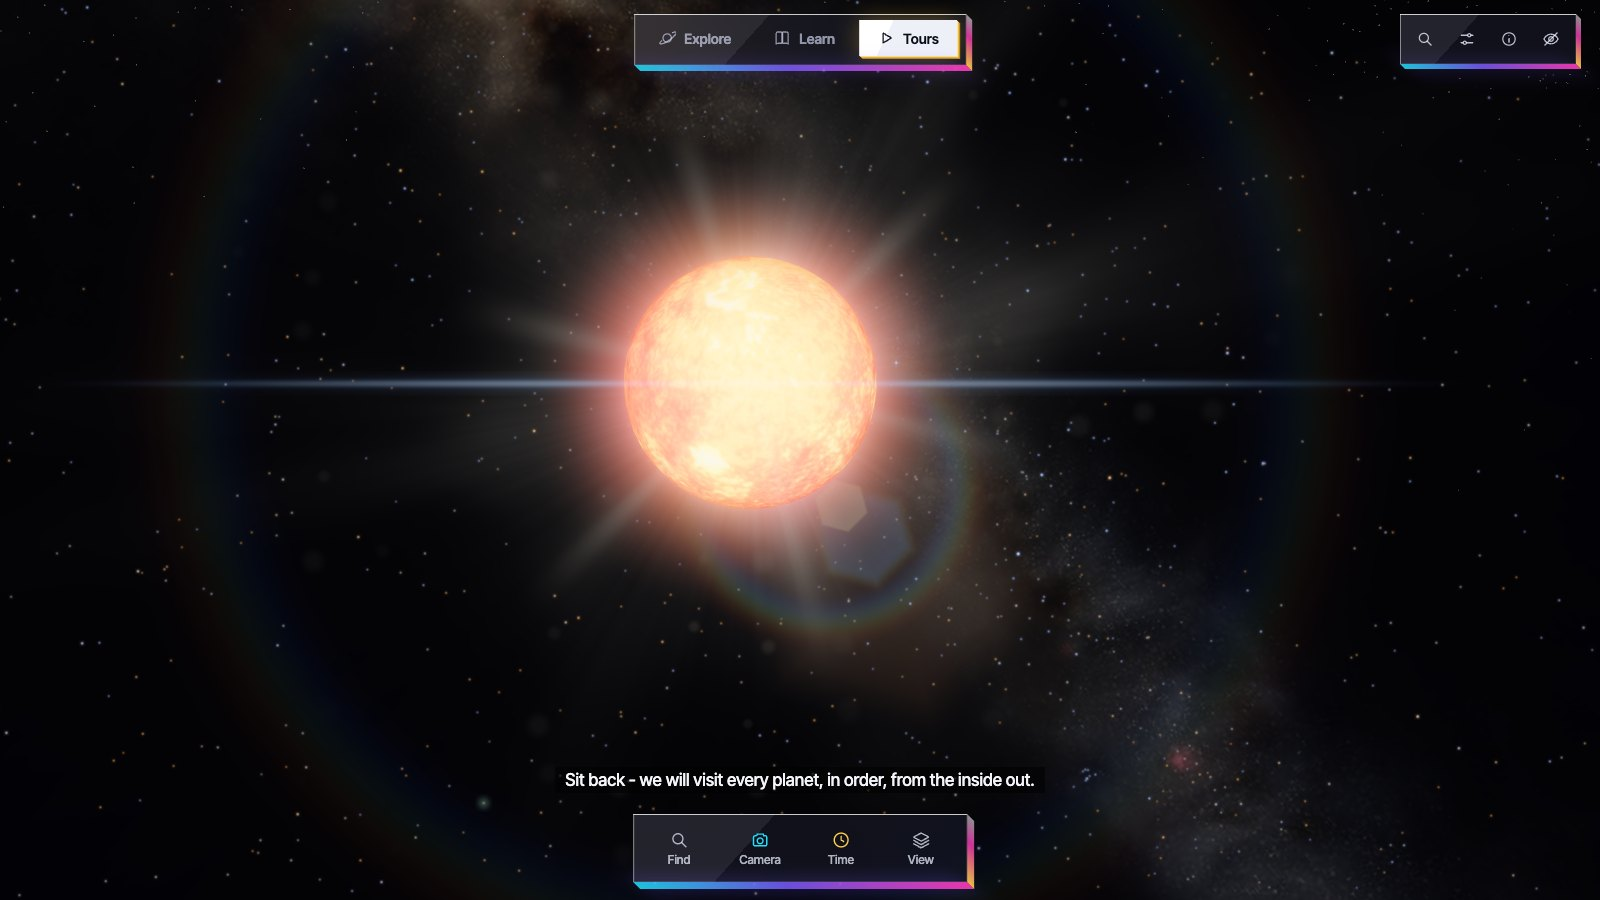
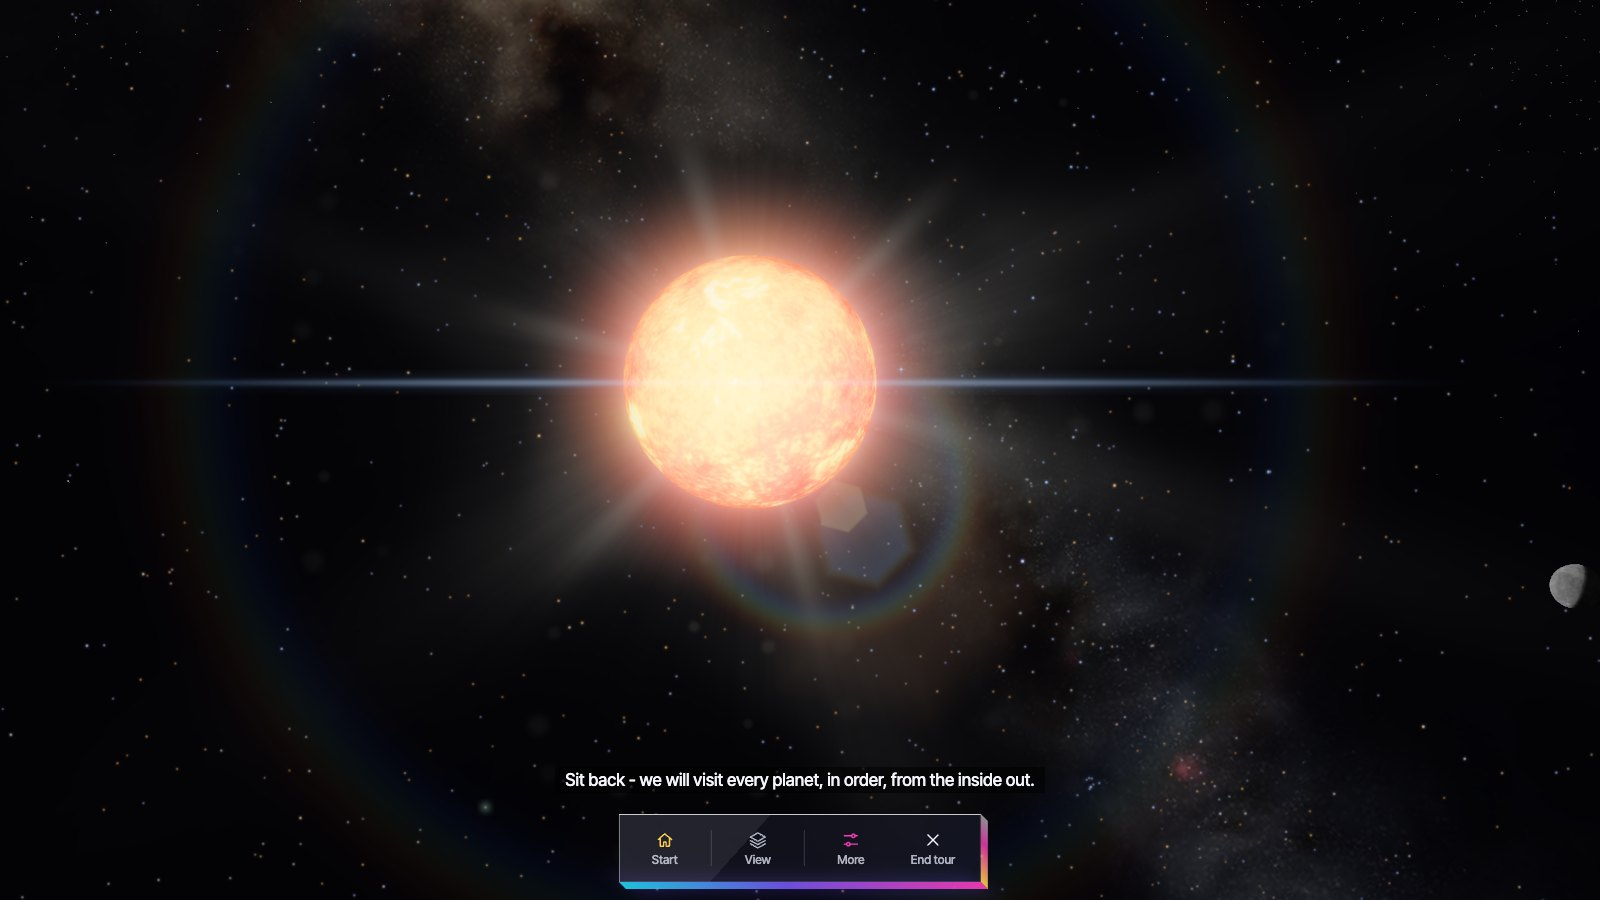
README and screenshots for the one bar: the start page, free flight, the Voyager tours and lessons
Also: free flight lets go of a followed body, and the follow chip has the HUD's font.

diff --git a/packages/app/scripts/screenshots.ts b/packages/app/scripts/screenshots.ts
@@ -25,16 +25,31 @@ const sunlit = async (page: Page, base: string, body: string, offset: [number, n
   await setSwitch(page, '#body-labels-toggle', false)
 }
 
+// A lesson from the start page, paused (lessons turn their pages by themselves), `nexts` chapters
+// on - each given time for its scene to settle.
 const lessonAt = async (page: Page, base: string, id: string, nexts: number) => {
   await boot(page, base)
-  await page.locator('#learn-mode-btn').click()
+  await page.locator('#start-btn').click()
   await page.locator(`.hud-lesson-card[data-lesson-id="${id}"]`).click()
   await wait(2500)
+  if ((await page.locator('#lesson-autoplay').getAttribute('aria-pressed')) === 'true') await page.locator('#lesson-autoplay').click()
   for (let i = 0; i < nexts; i++) {
     await page.locator('#lesson-next-chapter').click()
     await wait(2500)
   }
-  await wait(1500)
+  await wait(2500)
+}
+
+// A mission tour from the start page, jumped to its station `index`, paused there.
+const missionAt = async (page: Page, base: string, tour: string, index: number) => {
+  await boot(page, base)
+  await page.locator('#start-btn').click()
+  await page.locator(`[data-tour-id="${tour}"]`).click()
+  await wait(4000)
+  await page.locator(`#mission-timeline li[data-index="${index}"] button`).click()
+  await wait(9000)
+  if ((await page.locator('#mission-play').getAttribute('data-state')) === 'playing') await page.locator('#mission-play').click()
+  await wait(800)
 }
 
 const SHOTS: Record<string, Shot> = {
@@ -59,33 +74,48 @@ const SHOTS: Record<string, Shot> = {
     await sunlit(page, base, 'Saturn', [480, -50])
     await sceneOnly(page)
   },
+  // The inner Solar System with the orbits and names - and the bar at the bottom.
   compact: async (page, base) => {
     await boot(page, base)
     await setSwitch(page, '#orbit-paths-toggle', true)
     await setSwitch(page, '#body-labels-toggle', true)
     await zoom(page, 5)
   },
-  welcome: async (page, base) => {
+  // Free flight past Saturn, the controls overlay showing its keys.
+  'free-flight': async (page, base) => {
+    await sunlit(page, base, 'Saturn', [300, -40])
+    await page.locator('#camera-mode-btn').click()
+    await page.addStyleTag({ content: '.hud-controls { display: block !important; }' })
+    await page.keyboard.press('Shift+Slash')
+    // No focus ring on the camera key.
+    await page.evaluate(() => (document.activeElement as HTMLElement | null)?.blur())
+    await wait(800)
+  },
+  // What a first visit opens: the start page.
+  start: async (page, base) => {
     await page.goto(`${base}/?lang=en`)
-    await page.locator('#welcome-card:not([hidden])').waitFor({ timeout: 60_000 })
+    await page.locator('#start-page:not([hidden])').waitFor({ timeout: 60_000 })
     await page.addStyleTag({ content: '.hud-beta-note { display: none !important; }' })
     await wait(2500)
   },
-  tours: async (page, base) => {
-    await boot(page, base)
-    await page.locator('#tours-mode-btn').click()
-    await wait(800)
-  },
   'grand-tour': async (page, base) => {
     await boot(page, base)
-    await page.locator('#tours-mode-btn').click()
-    await page.locator('#tour-library [data-tour-id="grand"]').click()
+    await page.locator('#start-btn').click()
+    await page.locator('#start-grand').click()
     await wait(9000)
   },
+  // Voyager 2 at Neptune, its station's card with NASA's photo, the stations in the bar.
+  'voyager-tour': (page, base) => missionAt(page, base, 'voyager2', 4),
   'lesson-planets': (page, base) => lessonAt(page, base, 'planetSizes', 0),
+  'lesson-seasons': (page, base) => lessonAt(page, base, 'seasons', 3),
   'lesson-moon': (page, base) => lessonAt(page, base, 'moonPhases', 3),
   'lesson-eclipse': (page, base) => lessonAt(page, base, 'solarEclipse', 6),
-  settings: async (page, base) => {
+  'lesson-voyager': (page, base) => lessonAt(page, base, 'voyager', 1),
+  'lesson-record': (page, base) => lessonAt(page, base, 'voyager', 2),
+  'lesson-jupiter': (page, base) => lessonAt(page, base, 'voyager', 5),
+  'lesson-taken-apart': (page, base) => lessonAt(page, base, 'voyagerDeepDive', 0),
+  // More, on its Audio tab: the narrator, subtitles and the music.
+  more: async (page, base) => {
     await boot(page, base)
     await followBody(page, 'Jupiter')
     await drag(page, [0, 160])

diff --git a/packages/app/scripts/supercut/stage.ts b/packages/app/scripts/supercut/stage.ts
@@ -5,19 +5,19 @@ import type { Page } from '@playwright/test'
 
 export const wait = (ms: number) => new Promise((resolve) => setTimeout(resolve, ms))
 
-// A fresh app: English, no welcome card, no idle tour, the narrator's subtitles on.
+// A fresh app: English, no start page, the narrator's subtitles on.
 export async function boot(page: Page, base: string): Promise<void> {
   await page.goto(`${base}/?tour=off&lang=en`)
   await page.locator('#scene[data-rendered="true"]').waitFor({ timeout: 60_000 })
-  await page.addStyleTag({ content: '.hud-beta-note, .hud-camera-hint { display: none !important; }' })
+  await page.addStyleTag({ content: '.hud-beta-note, .hud-camera-hint, .hud-controls { display: none !important; }' })
   await wait(1500)
 }
 
+// Flies to a body and follows it, through the search.
 export async function followBody(page: Page, name: string): Promise<void> {
-  await page.locator('.hud-dock-btn[data-panel="find"]:visible').click()
-  await page.locator('#entity-search-input').fill(name)
-  await page.locator('#entity-search-input').press('Enter')
-  await page.locator('.hud-dock-btn[data-panel="find"]:visible').click()
+  await page.locator('#search-btn').click()
+  await page.locator('#palette-input').fill(name)
+  await page.locator('#palette-input').press('Enter')
   await wait(3500)
 }
 
@@ -99,11 +99,11 @@ export async function glide(page: Page, [dx, dy]: [number, number], ms: number, 
 // its labels stay.
 export async function lessonSceneOnly(page: Page): Promise<void> {
   await page.addStyleTag({
-    content: '.hud-modes, .hud-top-actions, .hud-dock, .hud-lesson-panel, .hud-view-controls, .hud-phase-inset, .hud-camera-hint { display: none !important; }',
+    content: '.hud-dock, .hud-lesson-panel, .hud-phase-inset, .hud-camera-hint, .hud-controls, .hud-follow-chip { display: none !important; }',
   })
 }
 
-// Holds keys down for `ms`: the app's own camera keys (arrows turn, R/F zoom), which it eases in
+// Holds keys down for `ms`: the app's own camera keys (arrows turn, W/S zoom), which it eases in
 // and out - smoother than any drag.
 export async function hold(page: Page, keys: string[], ms: number): Promise<void> {
   for (const key of keys) await page.keyboard.down(key)

diff --git a/packages/app/src/camera/cameraDirector.ts b/packages/app/src/camera/cameraDirector.ts
@@ -56,8 +56,10 @@ export class CameraDirector {
   }
 
   // Switching to free-fly starts from the orbit camera's current view, unless syncFlyPose is false:
-  // leaving a lesson returns to free-fly exactly where the fly camera was left.
+  // leaving a lesson returns to free-fly exactly where the fly camera was left. Free flight follows
+  // nothing, so a followed body is let go.
   setMode(mode: CameraMode, { syncFlyPose = true } = {}): void {
+    if (mode === 'fly' && this.follow.followedEntityId) this.stopFollowing()
     if (mode === 'fly' && this.input.mode === 'orbit' && syncFlyPose) {
       const eye = this.orbit.getEyePosition()
       this.fly.setPose(eye, vec3.subtract(vec3.create(), this.orbit.pivot(), eye), this.orbit.upAxis)

diff --git a/packages/app/e2e/entitySearch.spec.ts b/packages/app/e2e/entitySearch.spec.ts
@@ -30,3 +30,12 @@ test('picking a body while in fly mode forces the camera back to orbit mode', as
   await expect(page.locator('#camera-mode-btn')).toHaveAttribute('data-mode', 'orbit')
   await expect(page.locator('#scene')).toHaveAttribute('data-following-id', 'mars')
 })
+
+test('switching to free flight lets go of the followed body, and says so', async ({ page }) => {
+  await openApp(page)
+  await goTo(page, 'Mars')
+  await expect(page.locator('#follow-indicator')).toBeVisible()
+  await page.locator('#camera-mode-btn').click()
+  await expect(page.locator('#follow-indicator')).toBeHidden()
+  await expect(page.locator('#scene')).not.toHaveAttribute('data-following-id')
+})

diff --git a/packages/app/src/hud/hud.css b/packages/app/src/hud/hud.css
@@ -2018,6 +2018,8 @@ body[data-context='explore'] .hud-leave-btn {
 
 /* "Following: Jupiter ×", just above the bar. */
 .hud-follow-chip {
+  font-family: var(--hud-font);
+  color: var(--hud-text);
   position: fixed;
   left: 50%;
   bottom: 104px;

diff --git a/README.md b/README.md
@@ -61,35 +61,46 @@ the Milky Way with its nebulae, and about 9,100 real stars in their own colors.
 | --- | --- |
 | ![Earth in front of the Sun: its night side with city lights, the aurora, and the Sun's corona around it](docs/images/corona.jpg) | ![Saturn and its rings in full sunlight](docs/images/saturn.jpg) |
 
-### Fly it, or let it fly you
+### Fly it yourself
 
-Orbit any body, or fly freely like a spaceship - with keys, mouse, or a thumbstick on a touch
-screen. Double-click a planet to fly there and follow it. Left alone, a silent flyby circles one
-planet after another.
+Everything is in one bar at the bottom: Start, Search, the camera, Time, View and More. Orbit any
+body - drag to turn, two fingers (or the right mouse button) to slide the view, scroll or pinch to
+zoom toward the pointer - or switch the camera to free flight and fly like a spaceship: the arrow
+keys turn the nose, Q/E roll, W/S give thrust that builds up with weight. The keys show as keycaps
+whenever you switch, and with ?. Double-click a planet to fly there and follow it; Ctrl+K searches
+everything.
+
+![Free flight past Saturn, the controls overlay showing its keys, the bar at the bottom](docs/images/free-flight.jpg)
 
 ### Tours, with a narrator
 
-The **Tours** mode holds the narrated **grand tour**: from the Sun out to Neptune and home to Earth,
-about eight minutes, with a narrator - Lyra or Orion - telling what makes each world special, and
-optional subtitles. It flies at warp between the planets, at either scale. The welcome card offers
-it at the start.
+The **start page** (the bar's Start, and by itself on a first visit) holds everything there is to
+start. The narrated **grand tour** flies from the Sun out to Neptune and home to Earth in about
+eight minutes, with a narrator - Lyra or Orion - telling what makes each world special, and
+optional subtitles. It flies at warp between the planets, at either scale. Two **Voyager tours**
+follow Voyager 1 and Voyager 2 along their real paths, station by station: each planet flyby at
+true scale, with NASA's photos, out to the heliopause and to where they are today.
 
 | | |
 | --- | --- |
-| ![The welcome card: language, narrator, and the start of the tour](docs/images/welcome.jpg) | ![The Tours mode's library with the grand tour](docs/images/tours.jpg) |
-| ![The grand tour approaching the Sun, with the narrator's subtitle](docs/images/grand-tour.jpg) | |
+| ![The start page: explore on your own, the grand tour with its language and narrator, the Voyager tours and the lessons](docs/images/start.jpg) | ![The grand tour approaching the Sun, with the narrator's subtitle](docs/images/grand-tour.jpg) |
+| ![The Voyager 2 tour at Neptune: the flyby at true scale, the station's card with Triton, the stations in the bar](docs/images/voyager-tour.jpg) | |
 
 ### Lessons that show, and read themselves out
 
-The **Learn** mode: *Get to know the planets* (side by side at true scale, sorted by size, mass,
-temperature and more), *Why does Earth have seasons?*, *Why does the Moon have phases?* and *What
-happens in a solar eclipse?* - each scene built to show the idea, and every chapter read out by the
-narrator.
+*Get to know the planets* (side by side at true scale, sorted by size, mass, temperature and more),
+*Why does Earth have seasons?*, *Why does the Moon have phases?*, *What happens in a solar
+eclipse?*, *Voyager: the farthest journey* and *Voyager in detail* (the probe taken apart, its
+power and radio, the gravity assists, the Golden Record and how to read its cover) - each scene
+built to show the idea, every chapter read out by the narrator, and the pages turning by
+themselves. Look around each scene: the Voyager probe and its record from all sides.
 
 | | |
 | --- | --- |
-| ![The planets lesson: the Sun and the planets side by side at true scale](docs/images/lesson-planets.jpg) | ![The Moon phases lesson: the evening crescent seen from the ground](docs/images/lesson-moon.jpg) |
-| ![The solar eclipse lesson: totality, the corona around the dark Moon](docs/images/lesson-eclipse.jpg) | |
+| ![The planets lesson: the Sun and the planets side by side at true scale](docs/images/lesson-planets.jpg) | ![The seasons lesson at the June solstice: Earth's axis tilted toward the Sun](docs/images/lesson-seasons.jpg) |
+| ![The Moon phases lesson: the evening crescent seen from the ground](docs/images/lesson-moon.jpg) | ![The solar eclipse lesson: totality, the corona around the dark Moon](docs/images/lesson-eclipse.jpg) |
+| ![The Voyager lesson: the probe with its antenna, booms and Golden Record named](docs/images/lesson-voyager.jpg) | ![The Golden Record, with what is on it](docs/images/lesson-record.jpg) |
+| ![The Voyager lesson at Jupiter, 1979: both probes on their real paths, Voyager 1's photo of the Great Red Spot](docs/images/lesson-jupiter.jpg) | ![Voyager in detail: the probe taken apart, each part named](docs/images/lesson-taken-apart.jpg) |
 
 ### Music
 
@@ -97,7 +108,7 @@ Three lo-fi tracks, played live by a synthesizer in the page (nothing recorded, 
 downloaded): calm **Drift**, the lo-fi house of **Nova** and the 8-bit **Pixel**. The music steps
 back while the narrator speaks.
 
-![Settings, Audio tab: the narrator's voice, subtitles, and the music with its volume](docs/images/settings.jpg)
+![More, Audio tab: the narrator's voice, subtitles, and the music with its volume](docs/images/more.jpg)
 
 ### English and German
 
@@ -157,30 +168,28 @@ To run it from the source instead, or to work on it:
 
 ### Using the app
 
-- **Explore, Learn and Tours** — the switch at the top of the screen chooses between flying around
-  the solar system, taking a lesson and taking a narrated tour. Explore and Learn have their own dock
-  at the bottom; the buttons at the top right search everything, open the settings and the About
-  dialog.
-- **Find** — the **Find** panel lists every body as a tree, by kind: the Sun, the planets with their
-  moons under them, dwarf planets, asteroids and comets. Typing narrows it down (Enter flies to the
-  first match); pick a body to fly the camera to it and lock on. A "Following: …" chip appears with
-  a **×** to stop following and return to free manual control.
-- **Camera** — by default, drag to orbit the current target (it keeps turning a little when you let
-  go), scroll or pinch to zoom; `W`/`A`/`S`/`D` or the arrow keys turn the view and `R`/`F` zoom.
-  Double-click (or double-tap) any planet, moon, comet or dwarf planet to fly there and follow it.
-  Use the **Camera** panel to switch to free flight, flown like a spaceship in a game:
-  `W`/`S` (or `↑`/`↓`) thrust forward/back, `A`/`D` (or `←`/`→`) strafe, `R`/`F` rise/sink, `Q`/`E`
-  roll, `Shift` boosts, drag to look around and scroll to set the speed. The ship eases in and out of
-  motion, slows down near planets and speeds up in open space (so the same keys work at every
-  scale), stops at a planet's surface instead of flying through it, and levels itself with the
-  ecliptic when you stop rolling. On a touch screen, free flight shows a thumbstick (fly and strafe)
-  and buttons to rise, sink and boost; drag anywhere else to look around, pinch to set the speed. A
-  short hint at the top of the screen recalls the controls whenever you switch. The same
-  panel has **Start Flyby**, an endless silent autopilot flight past every planet, flown like a
-  spaceship — it accelerates, brakes on arrival, banks into turns and circles each planet once (any
-  camera input hands control back, exactly where the flight was).
-- **Tours** — the **Tours** button opens the tour library; the **grand tour** flies from the Sun to
-  Neptune and home to Earth with a narrator. Any camera input, or Explore, ends it.
+- **The bar** — every control sits in one bar at the bottom: **Start**, **Search**, the camera,
+  **Time**, **View** and **More**. In a lesson or a tour the same bar becomes its player, with
+  **Leave** or **End tour**. Only one panel is open at a time; a press on the scene or Escape closes
+  it.
+- **Start** — the start page: explore on your own, the narrated **grand tour** (with its language
+  and narrator), the two **Voyager tours** and the lessons with a search. It opens by itself on a
+  first visit; nothing flies before a click, so the narrator is always heard.
+- **Search** — `Ctrl+K` (`Cmd+K` on a Mac) or the bar's Search finds bodies, tours, lessons and
+  settings in one list; a planet's name finds its moons too. Picking a body flies the camera to it
+  and follows it; a "Following: …" chip above the bar lets go of it again.
+- **Camera** — the camera key shows the mode in use and switches between the two. **Orbit**: drag
+  to turn around the target, drag with two fingers (or the right mouse button, or Shift) to slide
+  the view, scroll or pinch to zoom toward the pointer; the arrow keys turn and `W`/`S` zoom.
+  Double-click (or double-tap) a planet, moon, comet or dwarf planet to fly there and follow it.
+  **Free flight** is flown like a spaceship: `W`/`S` thrust forward/back, building up and dying away
+  with weight; the arrow keys steer the nose (`↑` down, `↓` up, `←`/`→` turn); `Q`/`E` roll;
+  `Shift` boosts; drag to look around, scroll to set the top speed. The ship slows near planets and
+  stops at their surface. On a touch screen it shows a thumbstick and buttons. Switching shows the
+  keys as keycaps (press `?` for them any time); a held key lights up.
+- **Tours** — the grand tour flies from the Sun to Neptune and home to Earth with a narrator; the
+  Voyager tours go station by station along the probes' real paths, each planet flyby at true scale,
+  with the stations in the bar to jump between. Any camera input ends the grand tour.
 - **Time** — the **Time** panel has play/pause, a reverse-direction button, and rate presets
   (real-time up to a year per second). The shuttle slider lets you dial in a rate directly: the
   center tick is zero (the clock is stopped), the left half rewinds, the right half fast-forwards
@@ -191,23 +200,26 @@ To run it from the source instead, or to work on it:
   toggles planet orbits, comet and dwarf-planet orbits, name labels, the stars (in their real
   colors), the Milky Way (with its nebulae and the nearest galaxies), the asteroid and Kuiper belts,
   comets, Earth's clouds and moons independently.
-- **Settings** — in tabs. **General**: the language. **Video**: HDR bloom, lens flares and the
+- **More** — the settings, in tabs. **General**: the language. **Video**: HDR bloom, lens flares and the
   **Filmic look** (off by default), which renders the picture's colors like film (AgX tonemapping):
   the Sun burns out to white-hot instead of staying a saturated orange, and the sky goes deep black.
   **Audio**: the narrator's voice (Lyra or Orion) and whether it speaks, subtitles, and the music
-  (off, Drift, Nova or Pixel) with its volume.
-- **Search everything** — `Ctrl+K` (`Cmd+K` on a Mac) or the search button finds objects, lessons
-  and settings in one list.
-- **Learn** — the lesson library shows the lessons by topic, with a search, and remembers where you
-  left each one: **Get to know the planets** (the Sun and planets side by side at true scale, sorted
-  by distance, size, mass, temperature and more, then each planet close up with its facts), **Why does Earth have seasons?** (Earth's tilted axis
-  through a year), **Why does the Moon have phases?** (the Moon's orbit from above, then a month of evenings and mornings from the ground —
-  crescent with earthshine, quarters and the rising full Moon) and **What happens in a solar
-  eclipse?** (the Moon's shadow from space, then the eclipse from the ground — through eclipse
-  glasses, the diamond ring, totality and a ring of fire). In a lesson, its dock steps through the
-  chapters (the chapter counter lists them all to jump to) and the text card folds down to its
-  title. Scenes in space can be zoomed and turned a little — scroll, pinch, drag, or the buttons on
-  the right — with a button back to the lesson's own view.
+  (off, Drift, Nova or Pixel) with its volume. Below them: show the controls, About (imprint,
+  privacy, licenses) and hiding the interface (`H`).
+- **Lessons** — on the start page, by topic, with a search; each remembers where you left it:
+  **Get to know the planets** (the Sun and planets side by side at true scale, sorted by distance,
+  size, mass, temperature and more, then each planet close up with its facts), **Why does Earth
+  have seasons?** (Earth's tilted axis through a year), **Why does the Moon have phases?** (the
+  Moon's orbit from above, then a month of evenings and mornings from the ground — crescent with
+  earthshine, quarters and the rising full Moon), **What happens in a solar eclipse?** (the Moon's
+  shadow from space, then the eclipse from the ground — through eclipse glasses, the diamond ring,
+  totality and a ring of fire), **Voyager: the farthest journey** (the probes, the Golden Record,
+  the flybys with NASA's photos, the Pale Blue Dot and interstellar space) and **Voyager in detail**
+  (the probe taken apart, its power and radio, gravity assists, the heliopause and how to read the
+  record's cover). Lessons play as they open, turning their pages by themselves; the bar steps
+  through the chapters (the chapter counter lists them all to jump to), and the text card folds
+  down to its title. Look around a scene as in Orbit - all the way round the Voyager probe and its
+  record - and **Reset view** returns to the lesson's own.
 - **Things to look for** — fly behind Earth (or the Moon) until it covers the Sun: the exposure
   opens up and the Sun's corona appears in full, with its streamers and the red prominences at the
   limb. Earth's night side shows its city lights, and the aurora glows around both poles — best seen
@@ -235,6 +247,9 @@ texts are in [CREDITS.md](CREDITS.md)):
 | Asteroid and Kuiper belt populations | Generated from the populations' published statistics (no individual catalogued objects) | Original, MIT |
 | Earth's clouds | Procedural, made for this project | Original, MIT |
 | Earth's city lights | NASA Earth Observatory's "Earth at Night" 2012 (Black Marble; Suomi NPP VIIRS data, NOAA NGDC), from NASA WorldWind's npm package; lights extracted by `packages/data-pipeline` | Public domain |
+| The Voyager spacecraft | NASA's "Voyager Probe (B)" model from [NASA 3D Resources](https://github.com/nasa/NASA-3D-Resources), converted by `packages/data-pipeline` (NASA's logotype painted over) | NASA media, no copyright |
+| The Golden Record and the Voyager photos | NASA/JPL and NASA/JPL-Caltech, from NASA's Image and Video Library and Wikimedia Commons (the record's own pictures and music are not in the app) | Public domain |
+| Voyager's paths, flybys and heliopause measurements | JPL Horizons; NASA's Space Physics Data Facility | Published data |
 | Earth's aurora | Procedural; the ovals' place around the IGRF-14 geomagnetic poles and their published geomagnetic latitudes and heights | Original, MIT |
 | The Sun's corona, chromosphere and prominences | Procedural; brightness profile from Baumbach's K-corona fit, heights from solar physics literature | Original, MIT |
 
